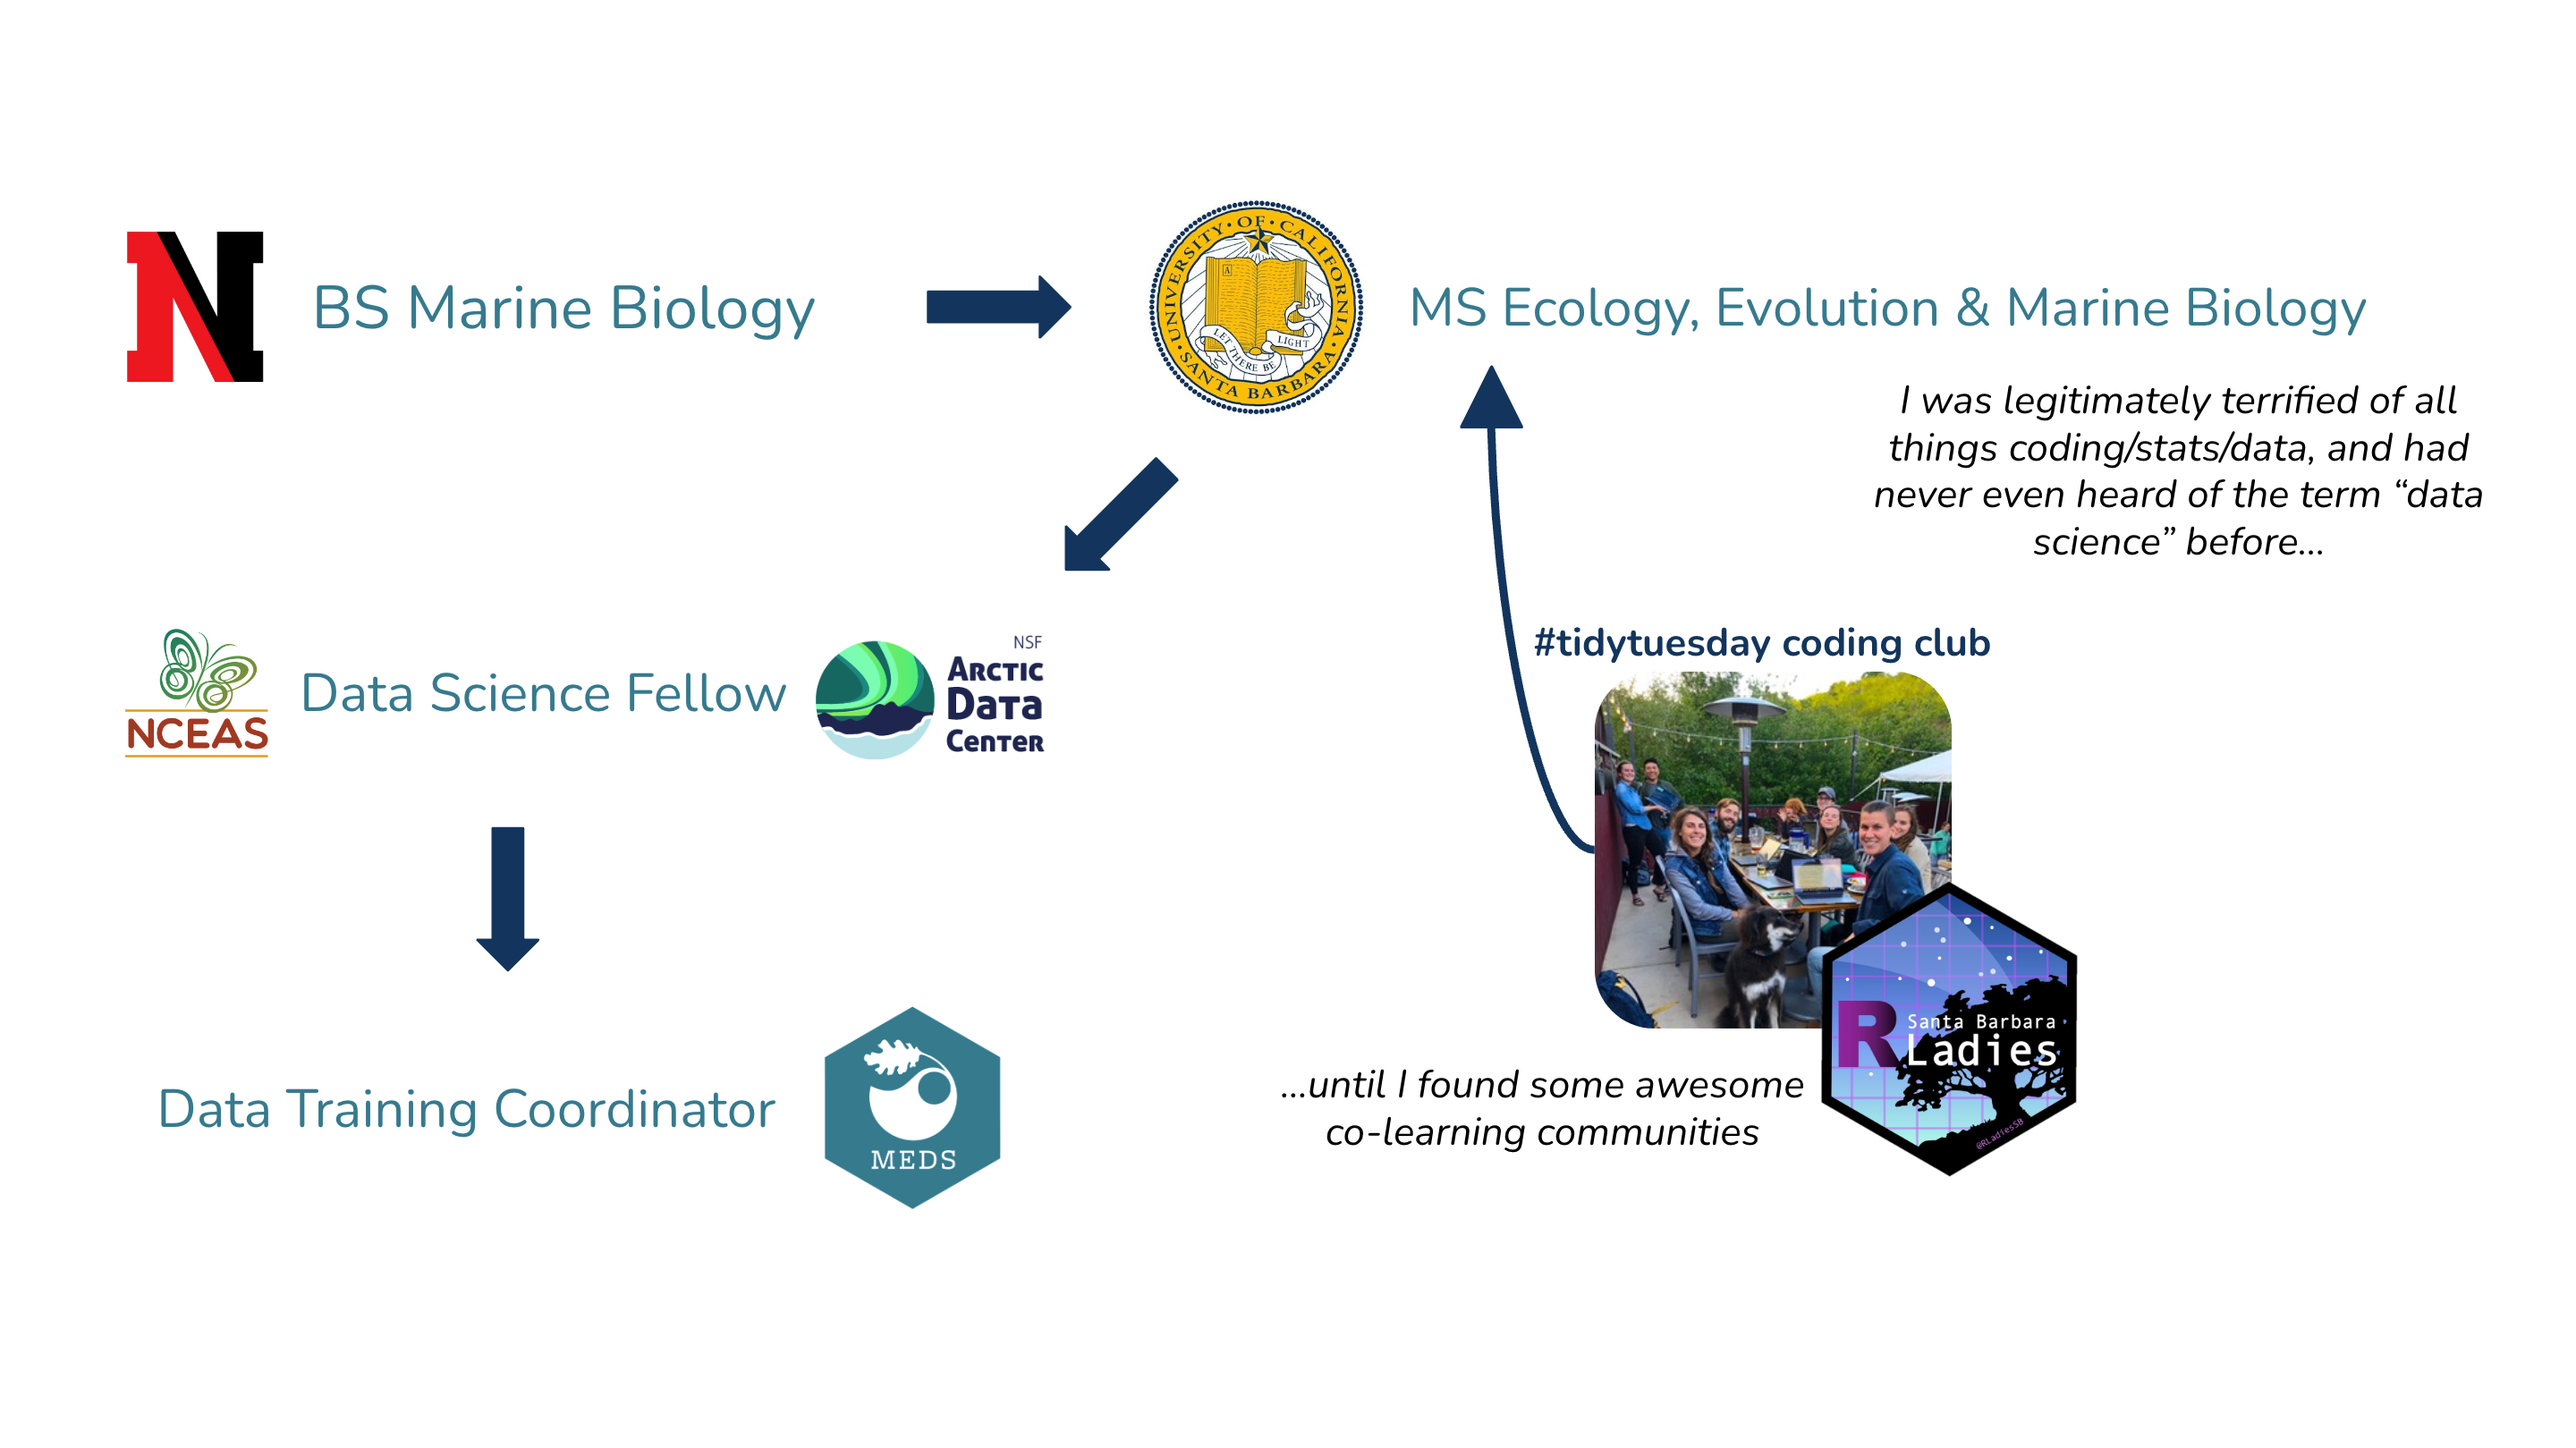
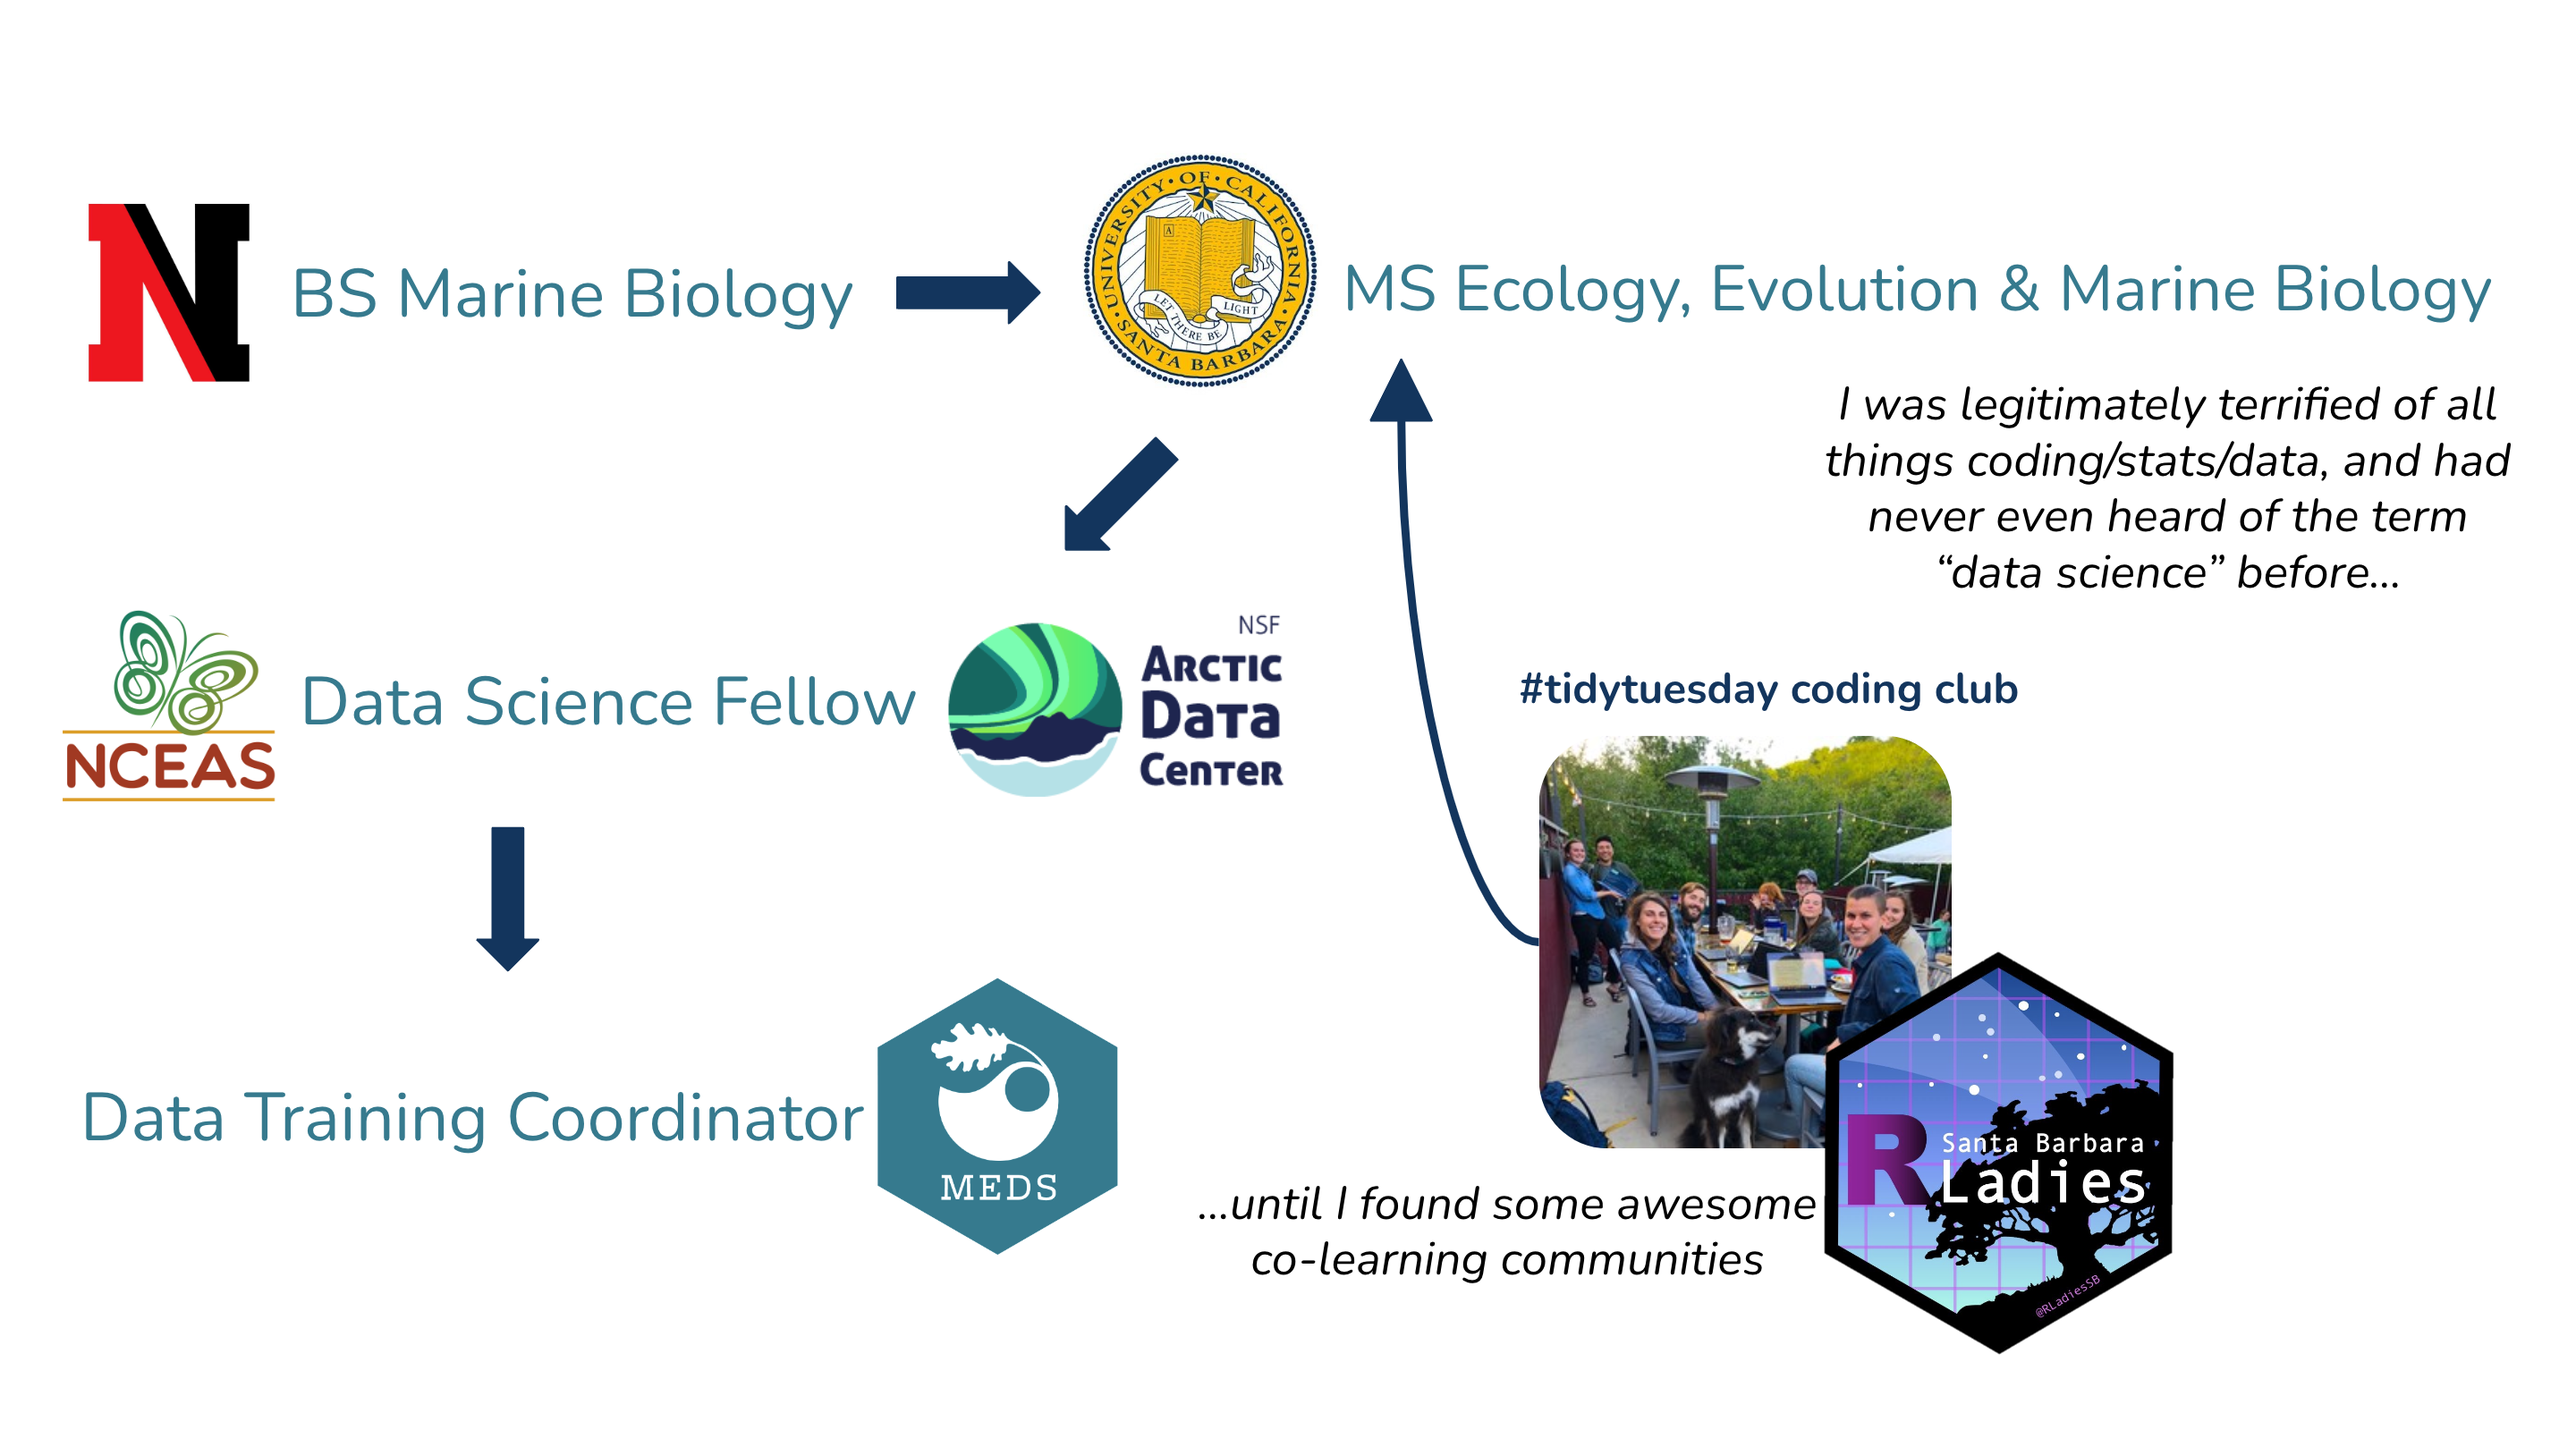
finished intro slides

diff --git a/slides/WaterData_2022-11-08.html b/slides/WaterData_2022-11-08.html
@@ -62,37 +62,57 @@ Slides &amp; source code available on [<svg aria-label="GitHub" role="img" viewB
 
 --
 
-I *never* imagined that I'd be an environmental data scientist (let alone teach others about it).
+&lt;span style = 'font-size: 90%;'&gt;I *never* imagined that I'd be an environmental data scientist (let alone teach others about it).&lt;/span&gt;
 
 ---
 
 ### But first, who am I and how'd I land myself here?
 
-&lt;img src="media/BS.png" width="100%" /&gt;
+&lt;br&gt;
+
+&lt;img src="media/BS.png" width="120%" /&gt;
 
 ---
 
 ### But first, who am I and how'd I land myself here?
 
-&lt;img src="media/MS.png" width="100%" /&gt;
+&lt;br&gt;
+
+&lt;img src="media/MS.png" width="120%" /&gt;
 
 ---
 
 ### But first, who am I and how'd I land myself here?
 
-&lt;img src="media/colearning.png" width="100%" /&gt;
+&lt;br&gt;
+
+&lt;img src="media/colearning.png" width="120%" /&gt;
 
 ---
 
 ### But first, who am I and how'd I land myself here?
 
-&lt;img src="media/fellow.png" width="100%" /&gt;
+&lt;br&gt;
+
+&lt;img src="media/fellow.png" width="120%" /&gt;
 
 ---
 
 ### But first, who am I and how'd I land myself here?
 
-&lt;img src="media/DTC.png" width="100%" /&gt;
+&lt;br&gt;
+
+&lt;img src="media/DTC.png" width="120%" /&gt;
+
+---
+### Joining co-learning communities can be invaluable in your growth as data scientists
+
+.center[
+&lt;img src="media/colearning_communities.png" width="90%" /&gt;
+.center[
+&lt;span style = 'font-size: 80%;'&gt;Learn more about these awesome, local (Santa Barbara-area) professional development and coding communities: [R-Ladies Santa Barbara](https://www.meetup.com/rladies-santa-barbara/), [Santa Barbara Women in STEM](https://www.sbwomeninstem.org/), [UCSB Carpentries](https://ucsbcarpentry.github.io/), the [Data Analysis and Coding Club (DANC)](https://www.instagram.com/danc.ucsb/?hl=en), &amp; [Central Coast Python](meetup.com/central-coast-python/).&lt;/span&gt;
+]
+]
 
 ---
 
@@ -136,6 +156,7 @@ I *never* imagined that I'd be an environmental data scientist (let alone teach 
 
 ### But the goal is to be a bit more at peace with that feeling...and have the confidence that you can find your way
 
+&lt;br&gt;
 &lt;br&gt;
 
 .center2[
